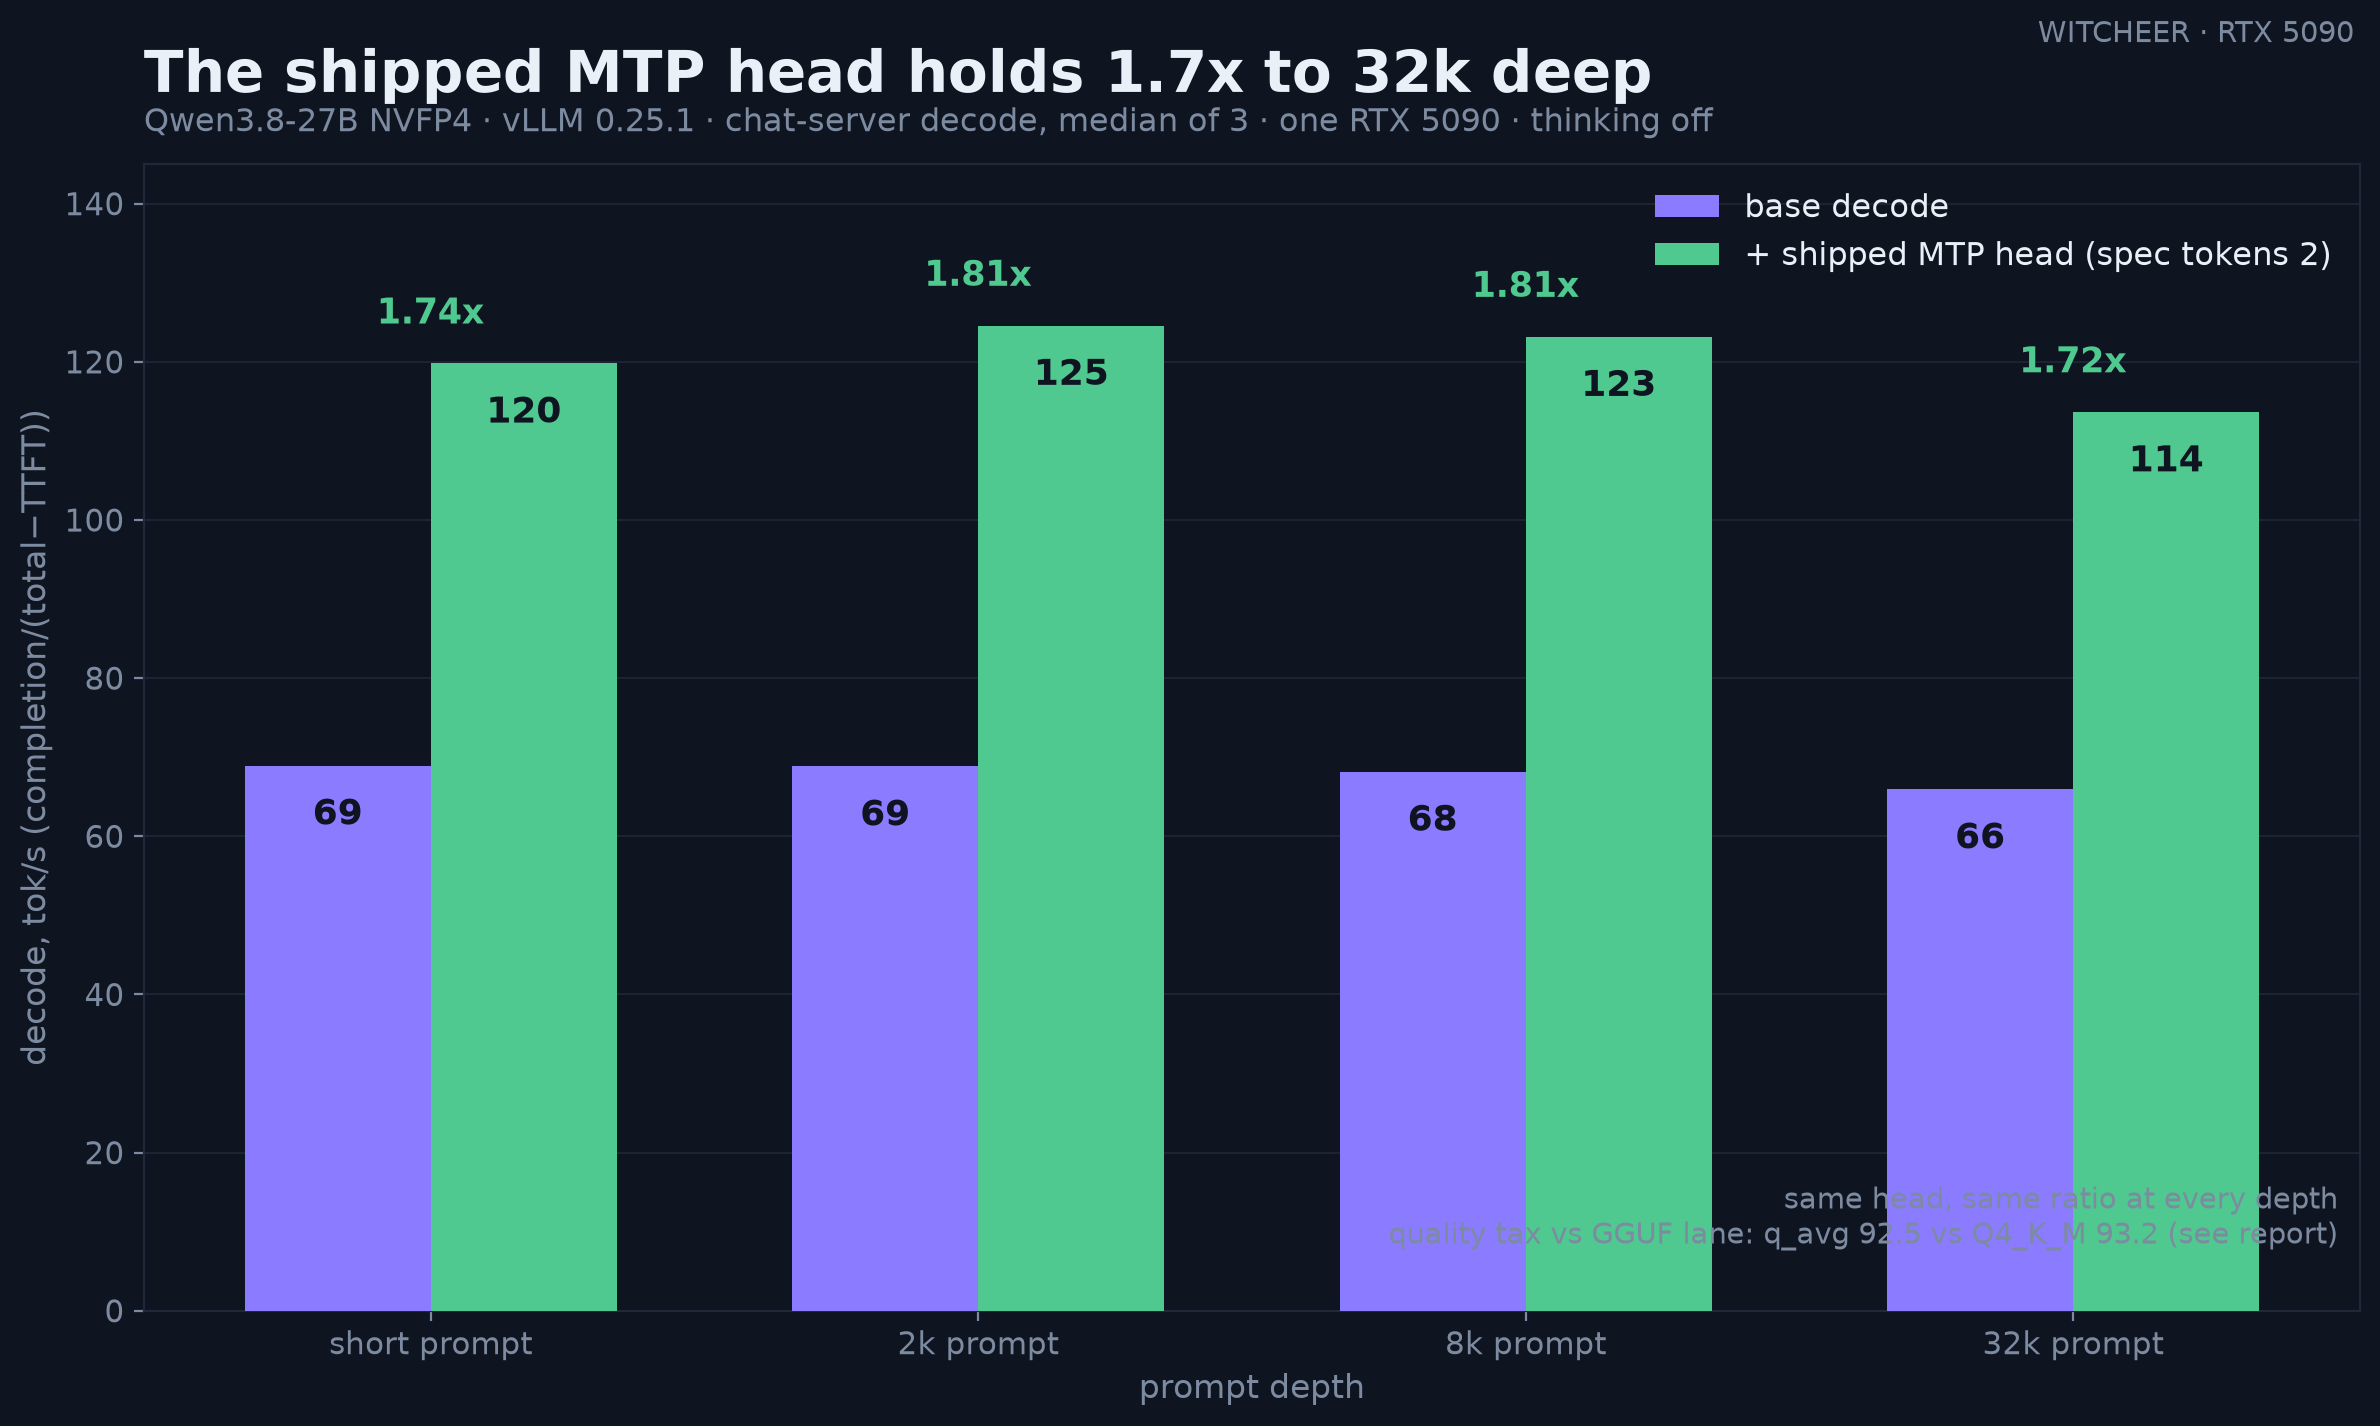
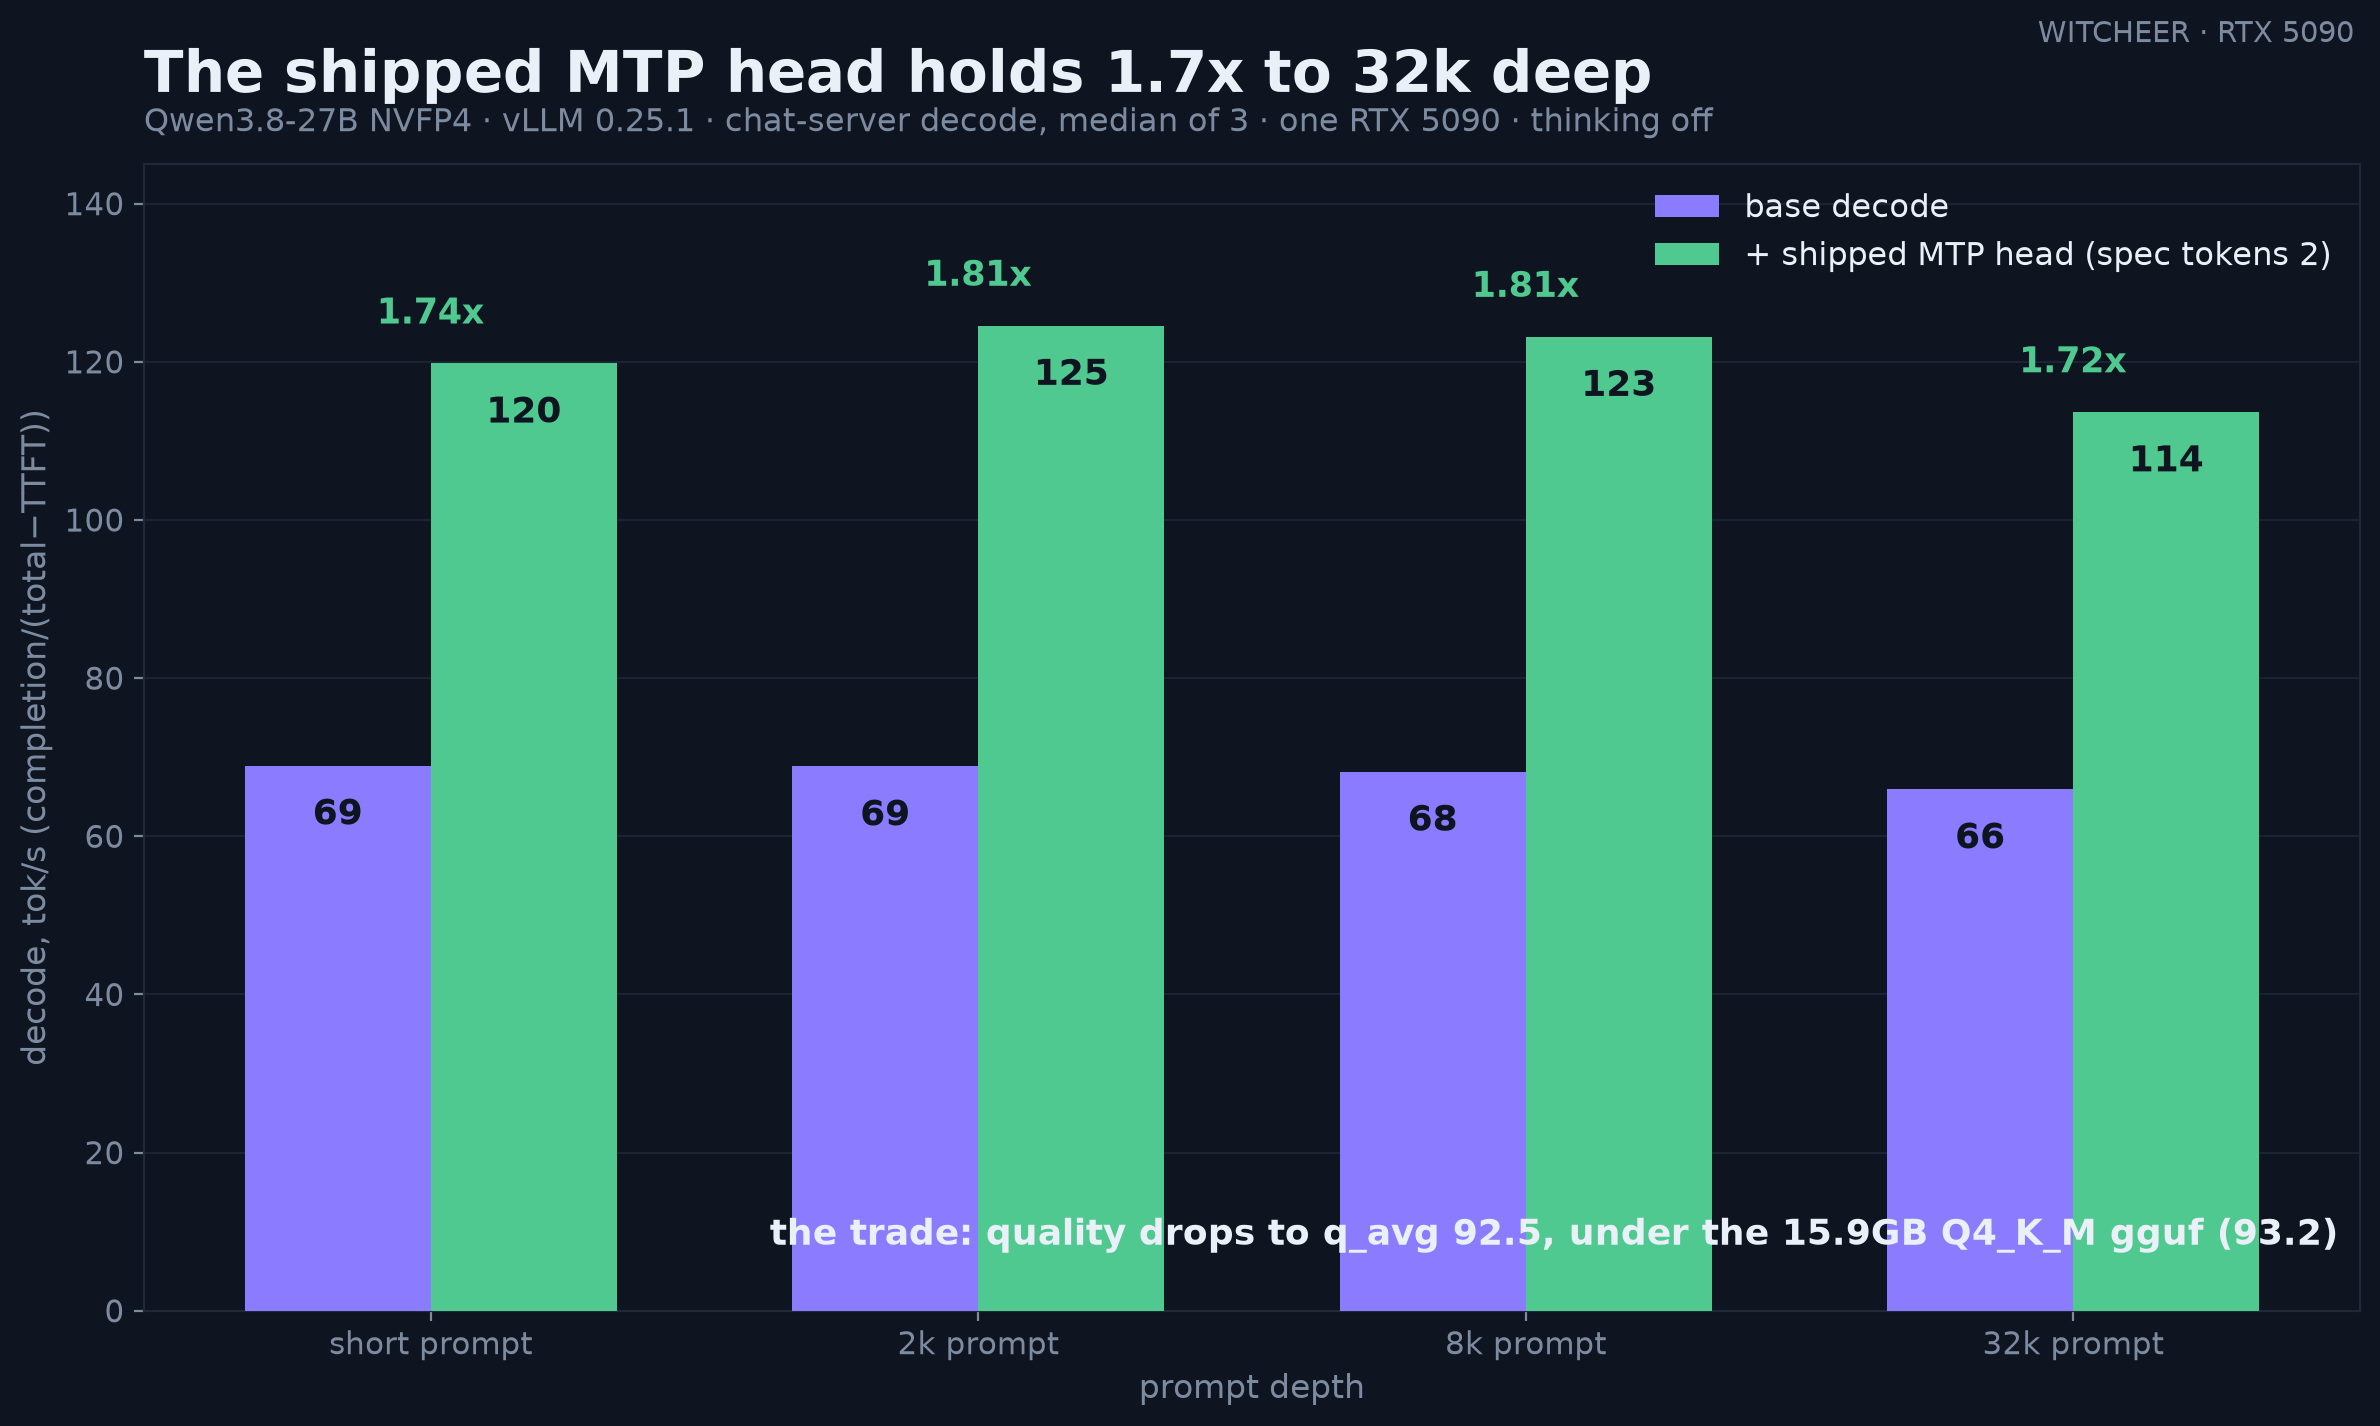
chart: nvfp4 mtp card annotation legible (bold bright, single line, redundant ratio note dropped)

Changed region(s): [[0.3109, 0.8331, 0.995, 0.8948]]

diff --git a/scripts/chart_q38_nvfp4_mtp.py b/scripts/chart_q38_nvfp4_mtp.py
@@ -42,8 +42,9 @@ for i, (b, m) in enumerate(zip(base, mtp)):
             color=GREEN, fontsize=12.5, fontweight="bold")
 
 ax.text(0.99, 0.05,
-        "same head, same ratio at every depth\nquality tax vs GGUF lane: q_avg 92.5 vs Q4_K_M 93.2 (see report)",
-        transform=ax.transAxes, color=MUTE, fontsize=10.5, ha="right", va="bottom")
+        "the trade: quality drops to q_avg 92.5, under the 15.9GB Q4_K_M gguf (93.2)",
+        transform=ax.transAxes, color=TEXT, fontsize=13, ha="right", va="bottom",
+        fontweight="bold")
 
 ax.set_xticks(x); ax.set_xticklabels(shapes)
 ax.set_ylim(0, 145)
